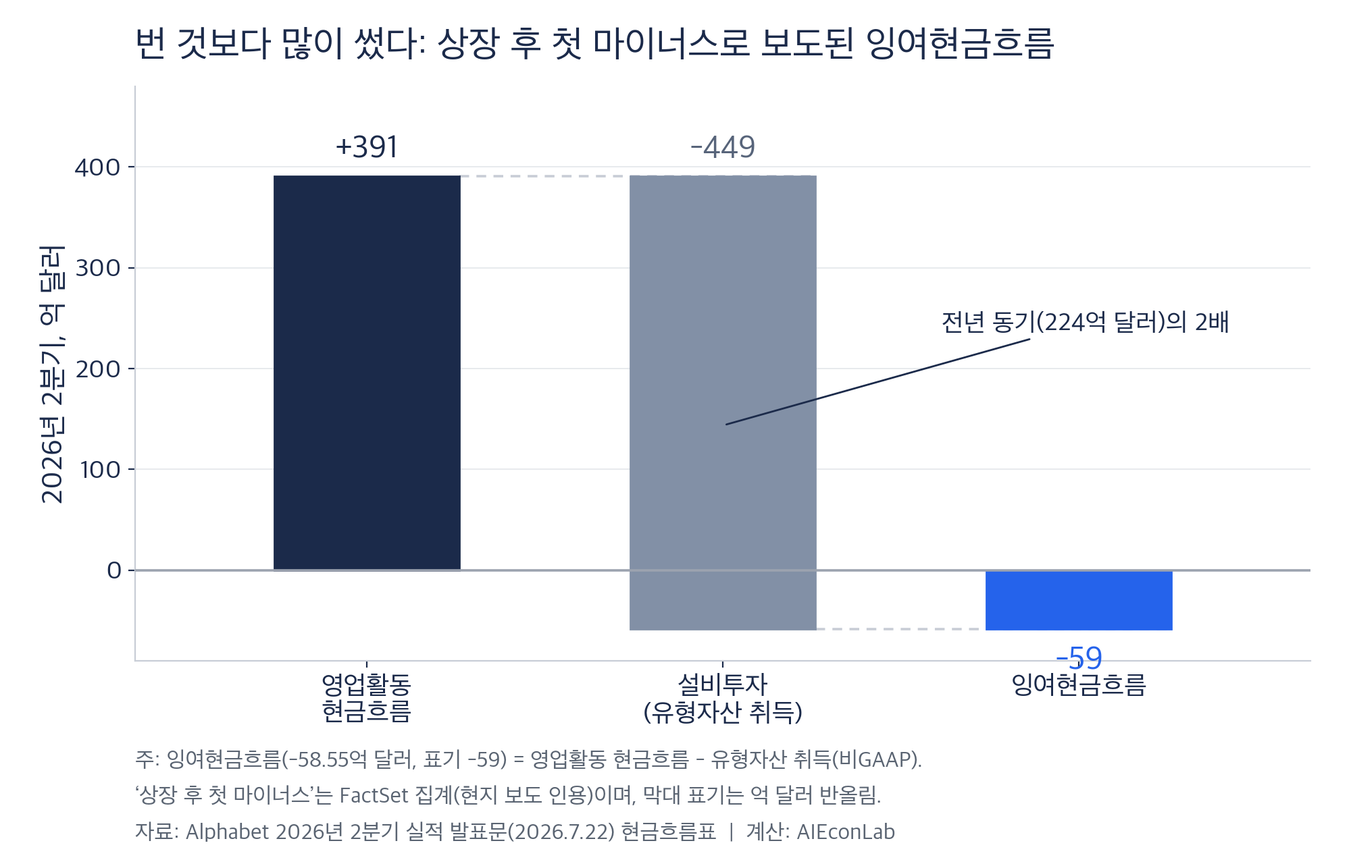
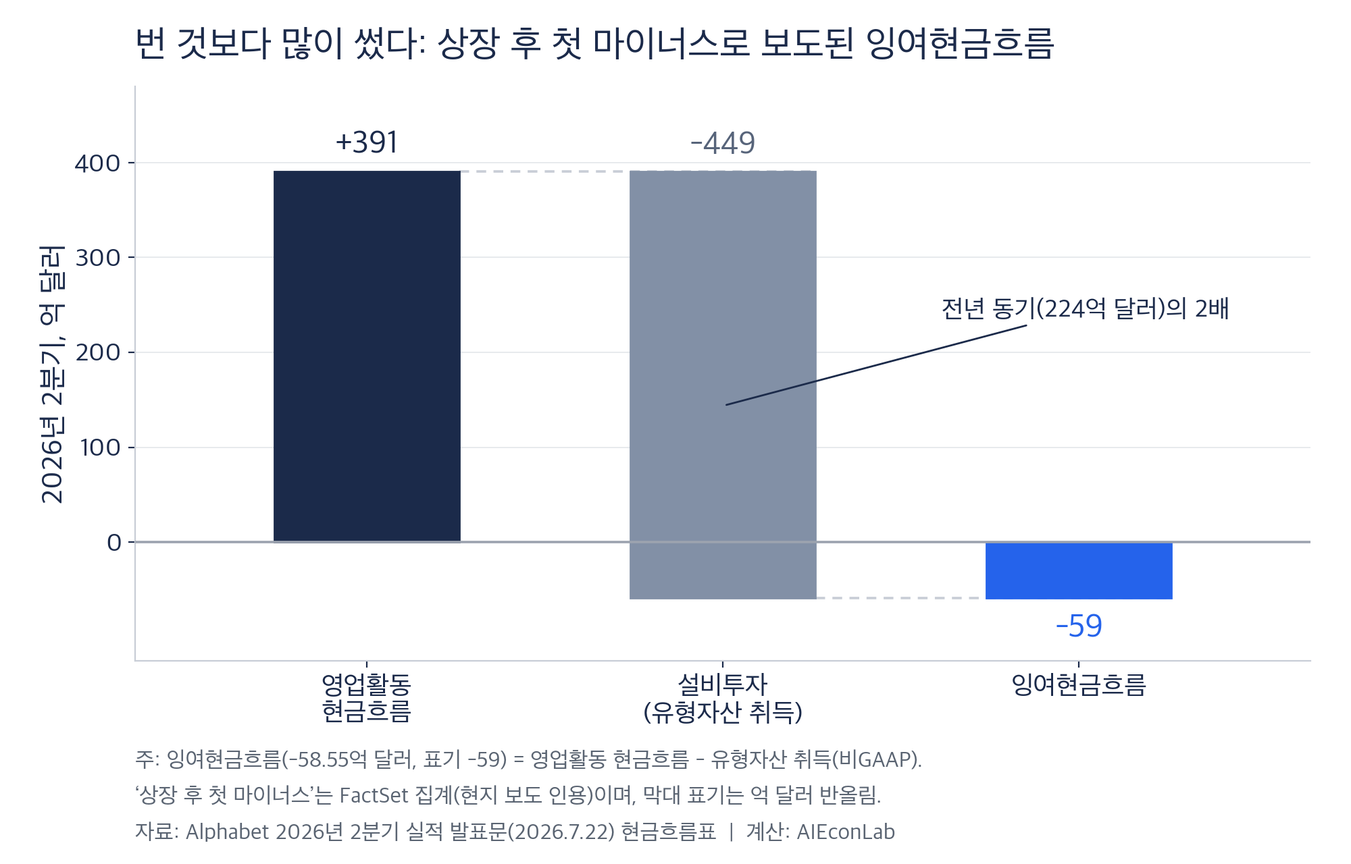
fix(trend14): 6차 감사 반영 — 100일선 시점·저자 오귀속(P1 2건) 교정, 국내 증시 이틀 추가
P1
- 100일선 하회는 발표 전 7/22 종가에 이미 발생(원고가 링크한 Yahoo 기사와 어긋남).
  '이튿날 7% 하락으로 넉 달 만에' → 시점·인과·기간 모두 교정
- trend5는 이정혁 필자의 2024-09-10 글인데 '필자가 정리했을 때'로 적어 저자 오귀속.
  저장소 관례에 맞춰 '그해 9월 이 블로그도 다뤘습니다'로 교체

P2
- FCF 303억 악화의 분해(설비투자 +210억 / 영업현금 -93억)와 2분기 계절성·전년비 +41% 병기
- 국내 증시 이틀 추가: 7/23 코스피 +4.40%(알파벳 capex 훈풍)·SK하이닉스 +4.86%,
  7/24 코스피 -5.72%·사이드카·삼전닉스 7%대 급락. '청구서가 줄어서가 아님'을 명시해 인과 과장 배제
- BofA 800억을 사전 전망으로 시제 교정 + 출처(24/7 Wall St.) 등재
- column4 질문 요약을 'AI의 거시 생산성 효과'로 정정, 그림1 캡션 -58.6 → -58.55
- description 229자 → 130자대, 도입부 예고에 매출 축 추가

그림/스크립트
- fig01 PNG의 x축 스파인이 '-59' 라벨을 관통하던 결함 수정(ylim 확장) + 재발 방지 assert 추가,
  PNG 재생성 및 README 해시 갱신

표현
- '빅테크 가운데 처음' → '하이퍼스케일러 가운데 처음', '약 네 배' → '약 3.8배',
  '반대편' → '반대면' 통일, '걸쳐 둔' → '걸어 둔', '물론' 중복 해소, 다섯 장의 층 구분

문서
- CLAUDE.md/AGENTS.md에 예약 게시 주의(--buildFuture 부재로 미래 날짜 글 조용히 누락) 명시

diff --git a/docs/03-analysis/alphabet-receipts/scripts/fig01_cash_receipts.py b/docs/03-analysis/alphabet-receipts/scripts/fig01_cash_receipts.py
@@ -88,7 +88,9 @@ def main():
     ax.set_xticklabels(["영업활동\n현금흐름", "설비투자\n(유형자산 취득)", "잉여현금흐름"],
                        fontsize=14.5, color=NAVY)
     ax.set_xlim(-0.65, 2.65)
-    ax.set_ylim(-90, 480)
+    # 하단 여백을 넉넉히 둬 '-59' 값 라벨이 x축 스파인에 걸리지 않게 한다
+    ax.set_ylim(-125, 480)
+    ax.set_yticks([0, 100, 200, 300, 400])  # 축 확장이 -100 눈금을 새로 만들지 않도록 고정
     ax.set_ylabel("2026년 2분기, 억 달러", fontsize=15.5, color=NAVY)
     ax.tick_params(colors=NAVY, labelsize=14)
     for s in ("top", "right"):
@@ -119,6 +121,10 @@ def main():
     gap23 = bb(note2).y0 - bb(note3).y1
     assert gap12 >= 2 and gap23 >= 2, ("주석 줄간 겹침", round(gap12, 1), round(gap23, 1))
     assert not bb(note_capex).overlaps(bb(ax.title)), "주석-제목 겹침"
+    # 값 라벨이 x축 스파인 아래로 삐져나가 취소선처럼 보이지 않는지 검사
+    ax_y0 = ax.get_window_extent(renderer=rend).y0
+    for t in ax.texts:
+        assert bb(t).y0 > ax_y0 + 3, ("값 라벨-축선 겹침", t.get_text())
     print(f"layout checks passed: note gaps {gap12:.1f}/{gap23:.1f}px, width ok")
 
     a.out.parent.mkdir(parents=True, exist_ok=True)

diff --git a/content/english/post/trend14_alphabet_receipts.md b/content/english/post/trend14_alphabet_receipts.md
@@ -7,7 +7,7 @@ images:
 #author
 author: "송하윤 (Hayun Song)"
 # description
-description: "알파벳 2026년 2분기 실적의 세 겹 읽기 — 순이익 1,121억 달러의 대부분을 만든 지분증권 평가이익 990억 달러의 착시, FactSet 집계상 상장 후 처음인 분기 잉여현금흐름 -59억 달러와 2,000억 달러대로 올라간 설비투자 가이던스, 클라우드 +82%와 수주잔고 5,140억 달러의 매출 증거, 그리고 7월 29~30일 SK하이닉스·FOMC·마이크로소프트·메타·미국 GDP로 이어지는 검증 일정"
+description: "알파벳 2026년 2분기 실적의 세 겹 읽기 — 사상 최대 순이익 1,121억 달러의 대부분은 지분증권 평가이익, 분기 잉여현금흐름은 -59억 달러, 설비투자 가이던스는 1,950억~2,050억 달러로 상향. 그 반대면의 클라우드 +82%와 다음 주 다섯 장의 영수증까지."
 # Taxonomies
 categories: ["AI_트렌드"]
 tags: ["AI","ECONOMICS","BIGTECH","CAPEX","CLOUD","SEMICONDUCTOR"]
@@ -17,39 +17,41 @@ draft: false
 
 지난 22일(현지시간) 알파벳이 2026년 2분기 실적을 발표했습니다. 매출은 1,198억 달러로 전년 동기 대비 24% 늘었고, 보통주주 귀속 순이익은 1,121억 달러로 **298% 늘었습니다**. 회사 역사상 가장 큰 분기 이익입니다. 그리고 이튿날(23일) 뉴욕 증시에서 알파벳 주가는 **약 7% 급락**해 4월 중순 이후 가장 낮은 수준으로 내려갔습니다.
 
-사상 최대 이익에 주가 급락이라는 조합은 역설처럼 보이지만, 이번 실적 시즌에 월가가 빅테크를 심사하는 기준을 알면 자연스럽게 읽힙니다. 미국 언론은 그 기준을 ‘영수증(receipts)’이라는 단어로 요약합니다. 빅테크가 AI 인프라를 중심으로 올해 합쳐 7,000억 달러 넘게 쓰겠다고 예고한 설비투자가 정말 돈이 되는지, 증빙을 내놓으라는 것입니다. 알파벳은 이번 시즌 빅테크 가운데 처음으로 영수증을 내밀었고, 시장은 이익의 크기가 아니라 영수증의 항목을 읽었습니다.
+사상 최대 이익에 주가 급락이라는 조합은 역설처럼 보이지만, 이번 실적 시즌에 월가가 빅테크를 심사하는 기준을 알면 자연스럽게 읽힙니다. 미국 언론은 그 기준을 ‘영수증(receipts)’이라는 단어로 요약합니다. 빅테크가 AI 인프라를 중심으로 올해 합쳐 7,000억 달러 넘게 쓰겠다고 예고한 설비투자가 정말 돈이 되는지, 증빙을 내놓으라는 것입니다. 알파벳은 이번 시즌 하이퍼스케일러 가운데 처음으로 영수증을 내밀었고, 시장은 이익의 크기가 아니라 영수증의 항목을 읽었습니다.
 
-이 글은 세 가지를 합니다. 먼저 1,121억 달러라는 숫자에서 착시를 걷어내고, 다음으로 이번 발표의 진짜 뉴스인 현금흐름과 커진 청구서를 읽고, 마지막으로 이것이 다음 주 한국의 일정과 어떻게 연결되는지 봅니다.
+이 글은 세 가지를 합니다. 먼저 1,121억 달러라는 숫자에서 착시를 걷어내고, 다음으로 이번 발표의 진짜 뉴스인 현금흐름과 커진 청구서, 그리고 그 반대면의 매출 증거를 읽고, 마지막으로 이것이 한국 반도체와 다음 주 일정으로 어떻게 이어지는지 봅니다.
 
 ## 걷어내기: 영업 밖에서 온 980억 달러
 
-먼저 이익의 분해입니다. 이번 분기 세전이익 1,388억 달러 가운데 영업이익은 408억 달러입니다. 전년 동기보다 30% 늘었고 영업이익률도 2%포인트 오른 34%였으니 그 자체로 좋은 성적이지만, 순이익을 네 배 가까이로 만든 힘은 아닙니다. 나머지를 채운 것은 **기타수익 980억 달러**이며(전년 동기에는 27억 달러였습니다), 그 정체를 회사 스스로 [발표문](https://s206.q4cdn.com/479360582/files/doc_financials/2026/q2/2026q2-alphabet-earnings-release.pdf)에 “주로 지분증권의 순미실현 평가이익”이라고 적었습니다. 기타수익 안의 지분증권 이익만 따로 보면 990억 달러이고, 다른 항목의 손실이 이를 일부 상쇄한 결과가 980억 달러입니다.
+먼저 이익의 분해입니다. 이번 분기 세전이익 1,388억 달러 가운데 영업이익은 408억 달러입니다. 전년 동기보다 30% 늘었고 영업이익률도 2%포인트 오른 34%였으니 그 자체로 좋은 성적이지만, 순이익을 네 배 가까이로 만든 힘은 아닙니다. 나머지를 채운 것은 **기타수익 980억 달러**입니다(전년 동기에는 27억 달러였습니다). 그 정체를 회사 스스로 [발표문](https://s206.q4cdn.com/479360582/files/doc_financials/2026/q2/2026q2-alphabet-earnings-release.pdf)에 “주로 지분증권의 순미실현 평가이익”이라고 적었습니다. 기타수익 안의 지분증권 이익만 따로 보면 990억 달러이고, 다른 항목의 손실이 이를 일부 상쇄한 결과가 980억 달러입니다.
 
-평가이익의 출처는 공식 확인과 추정을 구분해 읽어야 합니다. 분기 보고서(10-Q)가 밝힌 주된 원천은 두 곳, 곧 지난 6월 12일 상장한 SpaceX(6월 말 기준 보유 지분 평가액 약 940억 달러)와 이름을 공개하지 않은 비상장사이며, 종목별 기여액은 공개되지 않았습니다. 이 비상장사를, 과거 지분율이 약 14%로 알려졌던 Anthropic으로 보는 것이 복수 보도의 추정입니다. Anthropic의 기업가치는 2분기 중 650억 달러 규모 투자 유치를 거치며 3,800억 달러에서 9,650억 달러로 뛰었고, 뱅크오브아메리카는 이 재평가에서 약 800억 달러의 평가이익이 발생했다고 추산합니다. 현행 미국 회계기준은 상장 지분의 가격 변동은 물론, 비상장 지분도 이번 투자 유치처럼 관측 가능한 거래가 생기면 재측정해 당기 손익에 반영하도록 하니, 절차상 이상한 숫자는 아닙니다.
+평가이익의 출처는 공식 확인과 추정을 구분해 읽어야 합니다. 분기 보고서(10-Q)가 밝힌 주된 원천은 두 곳, 곧 지난 6월 12일 상장한 SpaceX(6월 말 기준 보유 지분 평가액 약 940억 달러)와 이름을 공개하지 않은 비상장사이며, 종목별 기여액은 공개되지 않았습니다. 이 비상장사를, 과거 지분율이 약 14%로 알려졌던 Anthropic으로 보는 것이 복수 보도의 추정입니다. Anthropic의 기업가치는 2분기 중 650억 달러 규모 투자 유치를 거치며 3,800억 달러에서 9,650억 달러로 뛰었고, 뱅크오브아메리카는 실적 발표에 앞서 이 재평가로 약 800억 달러의 미실현 평가이익이 잡힐 것으로 전망한 바 있습니다. 현행 미국 회계기준은 상장 지분의 가격 변동은 물론, 비상장 지분도 이번 투자 유치처럼 관측 가능한 거래가 생기면 재측정해 당기 손익에 반영하도록 하니, 절차상 이상한 숫자는 아닙니다.
 
-다만 세 가지 단서가 붙습니다. 첫째, 이것은 대부분 현금 유입을 동반하지 않은 미실현 이익, 곧 장부 위의 이익입니다. 둘째, 보도의 추정이 맞는다면 이 이익의 큰 몫은 자사의 가장 직접적인 프런티어 모델 경쟁사 몸값이 올라서 생긴 셈이 됩니다. 경쟁에서 이기면 본업이 벌고 경쟁사의 가치가 오르면 지분이 버는, 경쟁의 양쪽에 걸쳐 둔 포트폴리오입니다. 셋째, 시장은 이 숫자를 실력으로 치지 않았습니다. 발표문 각주는 지분증권 이익 990억 달러가 법인세를 219억 달러, 순이익을 771억 달러, 희석 주당순이익을 6.26달러(9.11달러 중) 늘렸다고 직접 명시합니다. 이를 걷어낸 영업의 성적은 시장 예상을 크게 벗어나지 않는 수준이었습니다. 순이익 급증분의 대부분이 영업 밖에서 왔다면, 심사는 결국 영업 안쪽의 두 장부, 곧 현금과 매출로 넘어갑니다.
+다만 세 가지 단서가 붙습니다. 첫째, 이것은 대부분 현금 유입을 동반하지 않은 미실현 이익, 곧 장부 위의 이익입니다. 둘째, 보도의 추정이 맞는다면 이 이익의 큰 몫은 자사의 가장 직접적인 프런티어 모델 경쟁사 몸값이 올라서 생긴 셈이 됩니다. 경쟁에서 이기면 본업이 벌고 경쟁사의 가치가 오르면 지분이 버는, 경쟁의 양쪽에 걸어 둔 포트폴리오입니다. 셋째, 시장은 이 숫자를 실력으로 치지 않았습니다. 발표문 각주는 지분증권 이익 990억 달러가 법인세를 219억 달러, 순이익을 771억 달러, 희석 주당순이익을 6.26달러(9.11달러 중) 늘렸다고 직접 명시합니다. 이를 걷어낸 영업의 성적은 시장 예상을 크게 벗어나지 않는 수준이었습니다. 순이익 급증분의 대부분이 영업 밖에서 왔다면, 심사는 결국 영업 안쪽의 두 장부, 곧 현금과 매출로 넘어갑니다.
 
 ## 현금의 산수: 분기 잉여현금흐름은 음수, 조달은 확대
 
-이번 분기 알파벳은 영업활동으로 391억 달러의 현금을 만들었고, 설비투자에 449억 달러를 썼습니다. 잉여현금흐름은 **-59억 달러**. FactSet 집계로는 2004년 상장 이후 처음 있는 분기 마이너스입니다. 발표문의 조정표가 보여주는 경로도 뚜렷합니다. 분기 잉여현금흐름은 최근 네 분기 동안 245억 → 246억 → 101억 → -59억 달러로 내려왔습니다. 설비투자 449억 달러는 전년 동기(224억 달러)의 2.00배이고, 분기 매출의 37.5%에 해당합니다.
+이번 분기 알파벳은 영업활동으로 391억 달러의 현금을 만들었고, 설비투자에 449억 달러를 썼습니다. 잉여현금흐름은 **-59억 달러**. FactSet 집계로는 2004년 상장 이후 처음 있는 분기 마이너스입니다. 발표문의 조정표가 보여주는 경로도 뚜렷합니다. 분기 잉여현금흐름은 최근 네 분기 동안 245억 → 246억 → 101억 → -59억 달러로 내려왔습니다. 설비투자 449억 달러는 전년 동기(224억 달러)의 두 배(2.00배)이고, 분기 매출의 37.5%에 해당합니다.
 
-![영업현금흐름 391억 달러에서 설비투자 449억 달러를 빼면 잉여현금흐름은 -59억 달러](/images/post/trend14/fig01_cash_receipts.png "그림 1: 2026년 2분기 알파벳 현금의 산수. 영업활동 현금흐름 391억 달러, 설비투자(유형자산 취득) 449억 달러, 잉여현금흐름 -59억 달러(반올림 전 -58.6억 달러). (자료: 알파벳 2분기 실적 발표문 현금흐름표. 계산: 필자)")
+다만 이 하락을 전부 설비투자 탓으로 돌릴 수는 없습니다. 같은 네 분기 동안 영업활동 현금흐름도 484억 → 524억 → 458억 → 391억 달러로 움직여, 245억에서 -59억까지 303억 달러가 나빠지는 사이 설비투자 증가가 210억, 영업현금 감소가 93억을 차지했습니다. 그렇다고 이 93억을 영업 악화로 읽어서도 안 됩니다. 알파벳의 영업현금은 2분기가 계절적 저점이고(지난해도 1분기 362억에서 2분기 277억으로 내려갔습니다), 전년 동기와 견주면 오히려 277억에서 391억 달러로 41% 늘었습니다.
+
+![영업현금흐름 391억 달러에서 설비투자 449억 달러를 빼면 잉여현금흐름은 -59억 달러](/images/post/trend14/fig01_cash_receipts.png "그림 1: 2026년 2분기 알파벳 현금의 산수. 영업활동 현금흐름 391억 달러, 설비투자(유형자산 취득) 449억 달러, 잉여현금흐름 -59억 달러(반올림 전 -58.55억 달러). (자료: 알파벳 2분기 실적 발표문 현금흐름표. 계산: 필자)")
 
 <small>[그림 1 원본 크게 보기](/images/post/trend14/fig01_cash_receipts.png)</small>
 
 이것을 유동성 부족으로 읽어서는 안 됩니다. 같은 조정표 기준으로 최근 12개월 잉여현금흐름은 여전히 533억 달러 흑자이고, 분기 말 보유 현금·유가증권은 2,425억 달러에 이릅니다. 정확한 독법은 이렇습니다. 지출이 분기 영업현금을 앞지른 바로 그 분기에, 조달의 폭도 커졌습니다. 발표문에 따르면 알파벳은 6월에 보통주와 의무전환우선주를 발행해 **496억 달러를 순조달**했고, 사용 목적에 “AI 인프라와 글로벌 컴퓨트 확장을 위한 설비투자를 포함한 일반 기업 목적”을 명시했습니다. 분기 중 선순위 무담보 채권으로도 203억 달러를 조달했습니다. 전년 상반기 283억 달러였던 자사주 매입은 올해 상반기 집행이 0입니다. 프로그램 자체는 잔여 승인 한도 695억 달러에 만료 없이 유지되고 있고 현금배당도 계속되고 있으니, 공시만으로 잉여현금흐름 적자가 조달을 촉발했다거나 자사주 재원이 설비투자로 직접 옮겨 갔다고 단정할 수는 없습니다. 확인되는 것은 설비투자 확대와 증자·차입, 매입 집행 0이 같은 시기에 겹치며 자본배분의 구성이 달라졌다는 사실이고, 그 흔적은 재무상태표에 쌓였습니다. 반년 새 순유형자산은 2,466억 달러에서 3,212억 달러로 746억 달러 늘었고, 장기부채는 465억 달러에서 982억 달러로 두 배 이상이 됐습니다.
 
-그리고 가이던스. 회사는 올해 연간 설비투자 전망을 1,800억~1,900억 달러에서 **1,950억~2,050억 달러**로 150억 달러 올렸고, 내년에는 더 늘어난다고 예고했습니다. 콘퍼런스콜 보도에 따르면 2분기 기술 인프라 투자의 약 60%는 서버, 나머지는 데이터센터와 네트워킹 몫이었습니다. 중간값 2,000억 달러는 지난해 실적(914억 달러)의 약 2.2배, 재작년(525억 달러)의 약 네 배입니다. 업계 전체로 보면, 지난 2월 5개사(마이크로소프트·알파벳·아마존·메타·오라클)의 2026년 연간 총설비투자 합산 전망이 6,600억~6,900억 달러로 집계됐고, 5월에는 주요 하이퍼스케일러의 합계가 7,000억 달러를 넘어섰다는 보도가 나왔습니다. 알파벳의 이번 상향으로 그 합계는 다시 높아졌습니다.
+그리고 가이던스. 회사는 올해 연간 설비투자 전망을 1,800억~1,900억 달러에서 **1,950억~2,050억 달러**로 150억 달러 올렸고, 내년에는 더 늘어난다고 예고했습니다. 콘퍼런스콜 보도에 따르면 2분기 기술 인프라 투자의 약 60%는 서버, 나머지는 데이터센터와 네트워킹 몫이었습니다. 중간값 2,000억 달러는 지난해 실적(914억 달러)의 약 2.2배, 재작년(525억 달러)의 약 3.8배입니다. 업계 전체로 보면, 지난 2월 5개사(마이크로소프트·알파벳·아마존·메타·오라클)의 2026년 연간 총설비투자 합산 전망이 6,600억~6,900억 달러로 집계됐고, 5월에는 주요 하이퍼스케일러의 합계가 7,000억 달러를 넘어섰다는 보도가 나왔습니다. 알파벳의 이번 상향으로 그 합계는 다시 높아졌습니다.
 
-주가의 낙폭이 커진 배경에도 이 대목이 있습니다. 이튿날의 7% 하락으로 알파벳 주가는 넉 달 만에 100일 이동평균선 아래로 내려갔고, 다음 주 실적 발표를 앞둔 메타 등의 주가도 함께 눌렸습니다. 다만 같은 날 나스닥이 2.2% 내렸고 테슬라 급락과 중동발 유가 급등까지 겹친 약세장이었던 만큼, 7% 전부를 이 청구서 탓으로 돌릴 수는 없습니다. 분명한 것은 알파벳에 관한 한 시장의 질문이 실적의 크기가 아니라 청구서의 증가 속도를 향해 있었다는 점입니다.
+주가의 낙폭이 커진 배경에도 이 대목이 있습니다. 알파벳 주가는 발표 전인 22일 종가에서 이미 4월 이후 처음으로 100일 이동평균선을 밑돌았고, 장 마감 뒤 발표가 나오자 이튿날 7% 하락으로 낙폭을 키웠습니다. 다음 주 실적 발표를 앞둔 메타 등의 주가도 함께 눌렸습니다. 다만 그 23일은 나스닥이 2.2% 내리고 테슬라 급락과 중동발 유가 급등까지 겹친 약세장이었던 만큼, 7% 전부를 이 청구서 탓으로 돌릴 수는 없습니다. 분명한 것은 알파벳에 관한 한 시장의 질문이 실적의 크기가 아니라 청구서의 증가 속도를 향해 있었다는 점입니다.
 
 ## 영수증의 반대면: 매출은 도착하고 있는가
 
-청구서만 커진 것은 아닙니다. 지출의 반대편 증거도 이번 발표에서 뚜렷해졌습니다.
+청구서만 커진 것은 아닙니다. 지출의 반대면 증거도 이번 발표에서 뚜렷해졌습니다.
 
 클라우드 부문 매출은 248억 달러로 **82% 늘며** 성장률이 크게 가속됐고(회사는 기업용 AI 인프라와 AI 솔루션 수요를 이유로 들었습니다), 부문 영업이익은 28억 달러에서 88억 달러로, 영업이익률은 20.7%에서 35.6%로 뛰었습니다. 아직 매출로 잡히지 않은 계약, 곧 수주잔고는 5,140억 달러입니다. 회사가 올해 1분기부터 1년 이하 계약(1분기 기준 약 73억 달러)도 포함하도록 공시 기준을 바꿔 1년 전 공개치(1,060억 달러)와 같은 기준의 비교는 아니지만, 동일 기준인 직전 분기(4,623억 달러)와 비교해도 한 분기 만에 약 11% 늘었습니다. 물량 지표도 있습니다. 발표문에서 순다르 피차이 CEO는 Gemini 모델이 분당 220억 개의 API 토큰을 처리하고 Gemini 앱의 월간 이용자가 9억 5,000만 명이라고 밝혔는데, 토큰 처리량의 직전 분기 공개치는 160억 개였습니다. 이번 공시에 단가 자료는 없어 가격 대비 물량의 속도까지 판정할 수는 없지만, 사용량과 매출이 함께 빠르게 늘고 있다는 사실 자체가 [‘예측이 값싸지는 시대’](/post/column3_economists_job/)가 주목했던 수요 반응의 실물 증거입니다.
 
-2024년 여름 세쿼이아캐피털의 데이비드 칸이 [‘AI의 6,000억 달러 질문’](https://www.sequoiacap.com/article/ais-600b-question/)을 던지고 필자가 [그 무렵의 거품 논쟁](/post/trend5_ai_hype/)을 정리했을 때, 회의론의 핵심 근거는 투자와 매출의 간극이었습니다. 설비투자는 눈에 보이는데 그것을 정당화할 매출이 보이지 않는다는 것. 이번 분기의 클라우드 숫자는 그 간극이 최소한 한 회사에서는 좁혀지고 있음을 매출 쪽에서 보여주는 강한 증거입니다. 물론 이는 방향의 증거이지, 전사 설비투자의 회수 속도나 투자수익률을 직접 재는 지표는 아닙니다.
+2024년 여름 세쿼이아캐피털의 데이비드 칸이 [‘AI의 6,000억 달러 질문’](https://www.sequoiacap.com/article/ais-600b-question/)을 던지고, 그해 9월 이 블로그도 [당시의 거품 논쟁](/post/trend5_ai_hype/)을 다뤘습니다. 칸이 제시한 회의론의 핵심 근거는 투자와 매출의 간극이었습니다. 설비투자는 눈에 보이는데 그것을 정당화할 매출이 보이지 않는다는 것. 이번 분기의 클라우드 숫자는 그 간극이 최소한 한 회사에서는 좁혀지고 있음을 매출 쪽에서 보여주는 강한 증거입니다. 물론 이는 방향의 증거이지, 전사 설비투자의 회수 속도나 투자수익률을 직접 재는 지표는 아닙니다.
 
 다만 반대면에도 반대면이 있습니다. 오늘의 이익률에는 오늘의 지출이 다 반영되어 있지 않습니다. 서버와 데이터센터는 사 오는 분기에 한꺼번에 비용이 되는 것이 아니라 이후 수년에 걸쳐 감가상각으로 비용화됩니다. 그래서 이번 분기 설비투자가 전년 동기의 두 배로 뛰는 동안, 과거 취득분에서 발생하는 감가상각비는 50억 달러에서 71억 달러로 42% 늘어나는 데 그쳤습니다. 두 숫자는 서로 다른 시점의 자산을 가리키므로 1대 1로 대응하지 않지만, 방향은 분명합니다. 지금의 지출은 앞으로 몇 년간 손익계산서에 차례로 도착할 예정입니다. 덧붙여 여기의 설비투자·감가상각은 전사 수치이고 클라우드 부문 귀속액은 따로 공개되지 않으며, 공통 AI 연구개발비의 일부는 부문 밖(Alphabet-level)에 계상됩니다. 클라우드 마진 35.6%를 AI 투자 전체의 수익률로 읽어서는 안 되는 이유이고, 그 마진 역시 청구서가 다 도착하기 전의 숫자입니다. 경영진이 투자 지속의 조건을 “매력적인 수익률이 보이는 한”이라고 달아 둔 것도 이 시차를 의식한 문장으로 읽힙니다.
 
@@ -61,19 +63,23 @@ draft: false
 
 이 실적이 태평양 건너의 일만은 아니라는 점은 어제 글에서 이미 보았습니다. [2분기 한국 GDP 속보를 다룬 글](/post/trend13_gdp_q2_surprise/)에서 확인했듯, 한국의 2분기 실질 국내총소득(GDI)은 반도체 가격 상승에 힘입어 전년 동기 대비 15.6% 늘며 38년여 만에 가장 빠른 속도를 기록했습니다. 다만 그 글에 적어 둔 식별의 한계는 여기서도 유효합니다. 한국은행 통계가 직접 보여주는 것은 반도체 가격 상승과 교역조건 개선까지이고, AI 데이터센터 투자는 이를 설명하는 유력한 수요 요인이지만 그 기여분을 국민계정에서 따로 떼어낼 수는 없습니다. 이 글이 확인한 하이퍼스케일러의 설비투자는 그 연결 가설의 수요 쪽 증거입니다. 알파벳의 2분기 기술 인프라 투자 중 약 60%가 서버로 갔고, AI 서버의 확대는 HBM과 고용량 서버용 D램의 수요를 늘리는 경로로 이어집니다.
 
-그래서 오는 29일(수) 오전 SK하이닉스의 2분기 실적 발표는 이 연결 경로가 HBM·서버용 D램의 출하와 가격, 이익에서 실제로 나타나는지 점검하는 다음 증거가 됩니다. 7월 하순 집계된 증권가 컨센서스는 매출 약 83조 원, 영업이익 약 64조 원입니다. 실제 숫자가 어디에 찍히든, 미국 빅테크의 자본지출이 한국 기업의 이익으로 번역된다는 가설이 다음 주에 다시 시험대에 오릅니다. 물론 기업 실적은 경로의 중간 검문소일 뿐이어서, 국민소득까지의 파급은 기업 발표가 아니라 다음 국민계정 통계에서 따로 확인할 몫입니다. 물론 어제 글의 경고를 여기에도 똑같이 적어 두어야 합니다. 같은 경로는 반대 방향으로도 작동합니다. 하이퍼스케일러의 청구서가 줄어드는 날, 가장 먼저 흔들리는 것도 이 경로입니다.
+그래서 오는 29일(수) 오전 SK하이닉스의 2분기 실적 발표는 이 연결 경로가 HBM·서버용 D램의 출하와 가격, 이익에서 실제로 나타나는지 점검하는 다음 증거가 됩니다. 7월 하순 집계된 증권가 컨센서스는 매출 약 83조 원, 영업이익 약 64조 원입니다. 실제 숫자가 어디에 찍히든, 미국 빅테크의 자본지출이 한국 기업의 이익으로 번역된다는 가설이 다음 주에 다시 시험대에 오릅니다. 물론 기업 실적은 경로의 중간 검문소일 뿐이어서, 국민소득까지의 파급은 기업 발표가 아니라 다음 국민계정 통계에서 따로 확인할 몫입니다.
+
+이 경로가 얼마나 예민한지는 지난 이틀의 국내 증시가 보여 줬습니다. 알파벳의 설비투자 가이던스가 전해진 23일(목) 코스피는 4.40% 오른 7,096.89로 마감했고, SK하이닉스는 4.86% 오른 191만 9,000원으로 장을 마쳤습니다. AI 인프라 수혜 기대가 그대로 가격에 실린 하루였습니다. 그런데 이튿날인 24일(금)에는 코스피가 5.72% 내린 6,690.62로 마감했습니다. 오전 11시 23분경 매도 사이드카가 발동됐고, 삼성전자와 SK하이닉스가 나란히 7% 넘게 밀렸으며, 외국인은 하루 만에 3조 원 넘게 순매도했습니다. 중동 지정학 리스크에 따른 유가 급등과 전날 미국 증시 급락이 원인으로 꼽혔습니다.
+
+이틀 사이 방향이 뒤집힌 것이 하이퍼스케일러의 청구서가 줄어서는 아닙니다. 알파벳은 오히려 청구서를 키웠습니다. 그래서 어제 글의 경고를 여기에도 똑같이 적어 두어야 합니다. 같은 경로는 반대 방향으로도 작동하고, 주가는 그 전환을 실적보다 먼저 반영합니다. 하이퍼스케일러의 청구서가 줄어드는 날, 가장 먼저 흔들리는 것도 이 경로입니다.
 
 ## 29일과 30일: 이틀 사이 도착하는 다섯 장의 영수증
 
-알파벳의 영수증을 첫 장으로 만드는 일정이 다음 주에 몰려 있습니다. 한국시간 기준으로 이틀 사이 다섯 개의 발표가 이어집니다.
+알파벳의 영수증을 첫 장으로 만드는 일정이 다음 주에 몰려 있습니다. 한국시간 기준으로 이틀 사이 다섯 개의 발표가 이어집니다. 세 장은 기업이 내미는 영수증이고, 나머지 둘은 그 영수증을 읽는 쪽의 판정입니다.
 
-* **29일(수) 오전 SK하이닉스 2분기 실적** — 알파벳을 비롯한 하이퍼스케일러의 서버 지출이 HBM·서버용 D램의 출하와 가격, 이익에 얼마나 반영됐는지 점검하게 됩니다.
-* **30일(목) 새벽 3시 7월 FOMC 결과** — [신트라의 중앙은행들을 다룬 글](/post/column4_central_banks_ai/)의 질문, 곧 AI가 만든 성장의 실체가 확인되기 전에 통화정책이 먼저 움직일 수 있는가가 다시 시험대에 오릅니다. 지난 16일 기준금리를 올린 한국은행에 이어 이번에는 연준의 차례입니다.
+* **29일(수) 오전 SK하이닉스 2분기 실적** — 앞 절에서 본 연결 경로가 실제 출하와 가격, 이익으로 확인되는지 보는 첫 장입니다. 24일 주가가 7% 넘게 밀린 뒤여서, 지난 분기의 숫자만이 아니라 하반기 전망이 함께 심사받게 됐습니다.
+* **30일(목) 새벽 3시 7월 FOMC 결과** — [신트라의 중앙은행들을 다룬 글](/post/column4_central_banks_ai/)의 질문, 곧 AI의 거시 생산성 효과가 확인되기 전에 통화정책이 먼저 움직일 수 있는가가 다시 시험대에 오릅니다. 지난 16일 기준금리를 올린 한국은행에 이어 이번에는 연준의 차례입니다.
 * **30일(목) 새벽 마이크로소프트 실적** — 애저(Azure) 성장률의 감속 여부가 첫 관전 포인트입니다. 집계 범위가 달라 구글 클라우드 +82%와 직접 비교할 수는 없지만, 기업용 AI 인프라 수요가 알파벳만의 것인지 방향은 확인됩니다.
 * **30일(목) 새벽 메타 실적** — AI 광고의 수익화와 설비투자 계획이 확인됩니다. 광고 사업으로 쓴 영수증이라는 점에서 클라우드와는 다른 각도의 증빙입니다.
 * **30일(목) 밤 9시 30분 미국 2분기 GDP 속보** — 개별 기업의 지출을 GDP에서 따로 식별할 수는 없지만, 정보처리장비·지식재산생산물 같은 총량 투자 지표로 그 반영을 확인할 차례입니다. 신트라 글에서 계산했던 1분기의 구도(성장률 2.1% 가운데 해당 투자의 기여 약 1.5%포인트)가 2분기에도 이어졌는지 볼 수 있습니다.
 
-정리하면 이렇습니다. 알파벳의 사상 최대 분기 이익은 대부분 영업 밖 지분 평가이익이 만들어 준 장부 위의 숫자였고, 진짜 뉴스는 그 아래에 있었습니다. 분기 기준으로 번 현금보다 많이 쓰기 시작했고(잉여현금흐름 -59억 달러), 연간 지출 전망을 다시 150억 달러 올렸으며(1,950억~2,050억 달러), 올해 상반기 자사주 매입 집행이 0인 가운데 증자와 차입이 병행되며 자본배분의 구성이 달라졌습니다. 반대편에서는 클라우드 매출 +82%와 마진 개선이라는, 투자-매출 간극이 좁혀지고 있다는 매출 쪽의 강한 방향성 증거가 나왔습니다. 시장은 일단 청구서 쪽 우려에 무게를 실었고, 약세장이 겹치며 주가는 7% 내렸습니다. 판정이 바뀔 기회는 바로 다음 주, 이틀 사이 다섯 번 옵니다. 그리고 그 첫 순서가 한국 기업이라는 사실이, 이 청구서의 경제학이 우리에게 남의 일이 아닌 이유입니다. 다섯 장의 영수증이 모이면 이 블로그에서 결산을 이어가겠습니다.
+정리하면 이렇습니다. 알파벳의 사상 최대 분기 이익은 대부분 영업 밖 지분 평가이익이 만들어 준 장부 위의 숫자였고, 진짜 뉴스는 그 아래에 있었습니다. 분기 기준으로 번 현금보다 많이 쓰기 시작했고(잉여현금흐름 -59억 달러), 연간 지출 전망을 다시 150억 달러 올렸으며(1,950억~2,050억 달러), 올해 상반기 자사주 매입 집행이 0인 가운데 증자와 차입이 병행되며 자본배분의 구성이 달라졌습니다. 반대면에서는 클라우드 매출 +82%와 마진 개선이라는, 투자-매출 간극이 좁혀지고 있다는 매출 쪽의 강한 방향성 증거가 나왔습니다. 시장은 일단 청구서 쪽 우려에 무게를 실었고, 약세장이 겹치며 주가는 7% 내렸습니다. 판정이 바뀔 기회는 바로 다음 주, 이틀 사이 다섯 번 옵니다. 그리고 그 첫 순서가 한국 기업이라는 사실이, 이 청구서의 경제학이 우리에게 남의 일이 아닌 이유입니다. 다섯 장의 영수증이 모이면 이 블로그에서 결산을 이어가겠습니다.
 
 **숫자의 기준** — 이 글의 알파벳 수치는 회사가 7월 22일(현지시간) 공시한 2분기 실적 발표문(무감사)을 기준으로 하며, 본문에서는 억 달러 단위로 반올림해 적었습니다. 잉여현금흐름 -59억 달러는 발표문 조정표의 -5,855백만 달러(영업활동 현금흐름 39,069백만 - 유형자산 취득 44,924백만), 최근 12개월 533억 달러는 같은 표의 53,273백만 달러입니다. 지분증권 이익의 법인세·순이익·주당순이익 효과(219억 달러·771억 달러·6.26달러)는 발표문 각주의 명시치입니다. ‘상장 후 첫 분기 마이너스’는 FactSet 집계를 인용한 보도이고, SpaceX 지분 평가액과 비상장사 귀속·수주잔고 공시 기준 변경은 분기 보고서(10-Q)와 이를 다룬 보도, 연간 설비투자 가이던스와 서버 비중·주가·컨센서스 등 나머지 시장 수치는 아래에 링크한 보도를 따랐습니다.
 
@@ -89,6 +95,7 @@ draft: false
 * 📰 [Fortune - Anthropic and SpaceX just handed Google the biggest profit quarter in company history—on paper (2026.7.22)](https://fortune.com/2026/07/22/anthropic-spacex-investments-google-earnings-biggest-ever-profit-quarter/)
 * 📰 [MediaPost - Anthropic, SpaceX Hand Google Profit Windfall (2026.7.23)](https://www.mediapost.com/publications/article/416750/anthropic-spacex-hand-google-profit-windfall.html)
 * 📰 [CoinCentral - How SpaceX and Anthropic Drove a Record $112B Profit Quarter (2026.7)](https://coincentral.com/alphabet-googl-stock-how-spacex-and-anthropic-drove-a-record-112b-profit-quarter/)
+* 📰 [24/7 Wall St. - Will Anthropic Boost Alphabet’s Earnings to the Stratosphere? (2026.7.20, 발표 전 BofA 추산 약 800억 달러·지분 약 14%·1분기 말 3,800억 달러)](https://247wallst.com/investing/2026/07/20/will-anthropic-boost-alphabets-earnings-to-the-stratosphere/)
 * 📰 [The Motley Fool - Stock Market Today, July 23: Alphabet Slides 7% After Announcing 2026 Capex of Roughly $200 Billion (2026.7.23)](https://www.fool.com/coverage/stock-market-today/2026/07/23/stock-market-today-july-23-alphabet-slides-7-after-announcing-2026-capex-of-roughly-usd200-billion/)
 * 📰 [FX Leaders - Why Is Alphabet (GOOGL) Stock Down Today? (2026.7.23, 잉여현금흐름 -59억 달러 확인)](https://www.fxleaders.com/news/2026/07/23/why-is-alphabet-googl-stock-down-today-record-quarter-7-billion-capex-shock-shares-fall-anyway/)
 * 📰 [Axios - What worried investors about Alphabet (2026.7.23, ‘상장 후 첫 분기 마이너스 FCF’ FactSet 집계 인용)](https://www.axios.com/2026/07/23/ai-alphabet-google-earnings)
@@ -101,6 +108,9 @@ draft: false
 * 📄 [Sequoia Capital - David Cahn, AI's $600B Question (2024.6)](https://www.sequoiacap.com/article/ais-600b-question/)
 * 📰 [파이낸셜투데이 - 삼성·SK하이닉스, 2분기도 최대 실적 예고…‘AI·범용 D램’ 동반 강세 (2026.6.18)](https://www.ftoday.co.kr/news/articleView.html?idxno=360617)
 * 📰 [글로벌이코노믹 - HBM 호황 다음 질문은 수익성…SK하이닉스 실적 시즌 시험대 (2026.7.21, 7월 하순 컨센서스)](https://www.g-enews.com/article/Industry/2026/07/20260721162309616112616b072_1)
+* 📰 [이데일리 - 코스피, 알파벳 훈풍에 4.40% 급등 마감 (2026.7.23)](https://edaily.co.kr/News/Read?mediaCodeNo=257&newsId=04877366645517472)
+* 📰 [파이낸셜뉴스 - 코스피, 장중 5% 급락에 ‘매도 사이드카’ 발동 (2026.7.24)](https://www.fnnews.com/news/202607241147294825)
+* 📰 [이투데이 - 연달아 쏟아진 ‘매도 사이드카’…국내 증시 충격 속 코스피 6700선 재이탈 (2026.7.24)](https://www.etoday.co.kr/news/view/2607237)
 * 📊 [KRX KIND - SK하이닉스 기업설명회(IR) 일정: 7월 29일](https://kind.krx.co.kr/corpgeneral/irschedule.do?irSeq=45179&method=searchIRScheduleDetail)
 * 📰 [다음/연합 - SK하이닉스, 29일 실적발표에 쏠린 눈 (2026.7)](https://v.daum.net/v/8zdd5lIkyu?f=p)
 * 📊 [Microsoft - 분기 실적 발표 일정 공지: 7월 29일 (2026.7.8)](https://news.microsoft.com/source/2026/07/08/microsoft-announces-quarterly-earnings-release-date-68/)

diff --git a/docs/03-analysis/alphabet-receipts/README.md b/docs/03-analysis/alphabet-receipts/README.md
@@ -27,7 +27,7 @@
 | 지분증권 이익 990억 달러(기타수익과 구분), 대부분 미실현 | 발표문 9쪽 Gain on equity securities $99,031M; 다른 항목 손실이 상쇄해 OI&E 순액 $97,983M. 10-Q 분해: 미실현 $98,753M + 실현 $278M(3차 리뷰 원문 대조로 확정) | 발표문 9쪽·10-Q |
 | 지분증권 이익의 효과: 법인세 +219억, 순이익 +771억, 희석 EPS +6.26달러 | 발표문 9쪽 각주(1) 명시 — “increased … by $21.9 billion, $77.1 billion, and $6.26” | **발표문(공식). 초안의 ‘월가 집계’ 귀속은 오류였음 — 교정** |
 | 평가이익 원천: SpaceX(6/12 상장, 6월 말 보유분 평가액 약 940억 달러) + 이름 미공개 비상장사, 종목별 기여액 비공개 | 10-Q 서술(보도 교차 확인). 지분율 수치(4.9% 등)는 공시 미확인 보도 추정 → 2차 교정에서 본문 삭제 | 10-Q·Motley Fool·Yahoo |
-| 비상장사=Anthropic(과거 약 14%로 알려진 지분), 기업가치 3,800억→9,650억(650억 라운드), BofA 평가이익 약 800억 추산 | 보도·애널리스트 추정 — 회사 공식 확인 아님. 초안의 ‘14%×가치상승’ 자체 계산은 희석·주식종류 미반영이라 삭제, 14%도 ‘과거 알려진 비율’로 한정 | Fortune·MediaPost·CoinCentral |
+| 비상장사=Anthropic(과거 약 14%로 알려진 지분), 기업가치 3,800억→9,650억(650억 라운드), BofA 평가이익 약 800억 추산 | 보도·애널리스트 추정 — 회사 공식 확인 아님. 초안의 ‘14%×가치상승’ 자체 계산은 희석·주식종류 미반영이라 삭제, 14%도 ‘과거 알려진 비율’로 한정. **BofA 800억은 실적 발표 전 사전 전망**(6차 교정) | 24/7 Wall St.(2026.7.20, 발표 전 BofA 추산 800억·지분 약 14%·기점 3,800억). Fortune·MediaPost·CoinCentral은 기점을 3,500억으로 적고 BofA 추산이 없어 미채택 |
 | 영업현금흐름 391억 달러 | $39,069M | 발표문 현금흐름표 |
 | 설비투자 449억 달러(전년 224억의 2.00배), 매출 대비 37.5% | $44,924M (전년 $22,446M); 44,924/119,796=37.5% | 발표문 현금흐름표 |
 | 분기 잉여현금흐름 -59억 달러, 최근 네 분기 245→246→101→-59, TTM +533억 | 발표문 9쪽 조정표: 24,461 / 24,551 / 10,116 / (5,855), TTM 53,273 | 발표문 9쪽 |
@@ -44,7 +44,9 @@
 | 수주잔고 5,140억 달러 — 전년 동기와 직접 비교 불가(공시 기준 변경), 동일 기준 직전 분기(4,623억) 대비 약 11% | 2026 Q1부터 원계약 1년 이하 계약 포함(Q1 기준 그 규모 약 73억 달러). 2025 Q2 공개치 1,060억과는 기준 상이 → 배수 비교 폐기 | Q1·Q2 10-Q·보도 |
 | 토큰 분당 220억 개(직전 공개 160억), Gemini 앱 MAU 9.5억 | 발표문 CEO 인용(220억·9.5억), 160억은 실적 슬라이드 보도. 단가 자료 부재 → ‘단가 대비 속도’ 주장 안 함 | 발표문·Investing.com |
 | 감가상각비 71억(전년 50억, +42%) | $7,104M (전년 $4,998M) — 당기 capex와 1:1 대응 불가(자산 시점 상이), ‘당기 지출의 1/6 반영’식 해석 금지 | 발표문 현금흐름표 |
-| 주가: 발표 익일(7/23) 약 -7%, 319달러 안팎, 4월 중순 이후 최저, 100일선 하회 | 보도 종합(시간외 -3.65% $329.43 → 익일 -7%) | Motley Fool·Yahoo·FX Leaders·CNBC |
+| 주가: 발표 익일(7/23) 약 -7%, 319달러 안팎, 4월 중순 이후 최저 | 보도 종합(시간외 -3.65% $329.43 → 익일 -7%) | Motley Fool·Yahoo·FX Leaders·CNBC |
+| 100일선 하회는 **발표 전인 7/22 정규장 종가**에 이미 발생 — 익일 -7%나 capex 가이던스의 결과가 아님. ‘since April’은 약 3개월이며 ‘넉 달’이 아님 | Yahoo 기사 원문 “closed below the key 100-day moving average for the first time since April **on Wednesday**”(7/23 프리마켓 발행이므로 Wednesday=7/22). 교차검증: 7/23 종가 $317.69(-7.13%)에서 역산한 7/22 종가 ≈ $342.08 < 100일 SMA $343.21(Benzinga 7/22) (6차 교정) | Yahoo·Benzinga |
+| 국내 증시: 7/23 코스피 +4.40% 7,096.89(알파벳 capex 훈풍), SK하이닉스 +4.86% 191만 9,000원 / 7/24 코스피 -5.72% 6,690.62, 11:23경 매도 사이드카, 삼성전자·SK하이닉스 7%대 이상 급락, 외국인 3조 원 넘게 순매도 | 7/24 하락의 1차 원인은 중동 유가 급등·전날 미 증시 급락. 외국인 순매도액은 보도별 편차(3.2조~4.2조)가 있어 ‘3조 원 넘게’로 표기. SK하이닉스 7/24 종가 등락률은 보도별로 7%대~-8.34%로 갈려 ‘7% 넘게’로 보수 표기 | 이데일리·파이낸셜뉴스·이투데이 |
 | 5개사(MS·알파벳·아마존·메타·오라클) 2026년 연간 총설비투자: 2월 집계 6,600~6,900억, 5월에는 7,000억 초과 보도 | 시점 분리 표기 — 초안·1~3차의 ‘5월 집계 6,600~6,900억’은 시점 오귀속(4차 교정) | Futurum(2026.2.12)·24/7 Wall St.(2026.5.1)·Yahoo |
 | SK하이닉스 2분기 컨센서스 매출 약 83조·영업이익 약 64조(7월 하순 집계), 발표 7/29 오전 | 6월 집계(81.85조/62.46조, ftoday)에서 7월 하순 상향(g-enews). 본문은 최신 집계만 사용 | 글로벌이코노믹(7/21)·다음/연합 |
 | 미국 2분기 GDP 속보 7/30 08:30 ET(한국 21:30), FOMC 결정 7/29 14:00 ET(한국 7/30 03:00), MS·메타 실적 7/29 장 마감 후, SK하이닉스 7/29 오전 | 공식 일정 페이지·공지 | BEA·연방준비제도(공식 일정)·Microsoft·Meta IR·KRX KIND |
@@ -108,6 +110,25 @@
 - ‘경쟁사가 앞서가면’ → ‘경쟁사의 가치가 오르면’(가치 상승과 경쟁 우위 혼동 방지),
   ‘지금까지 가장 강한 증거’ 2곳 → ‘매출 쪽의 강한 (방향성) 증거’로 범위 한정.
 
+6차 감사(2026-07-25 오전, 23개 에이전트 병렬 감사 + 반증 검증)로 교정한 것들:
+- [P1] 100일선 하회 시점·인과: ‘이튿날 7% 하락으로 넉 달 만에 100일선 아래로’ → 하회는 발표 전
+  7/22 종가에 이미 발생했고 ‘since April’은 약 3개월. 원고가 이미 링크한 Yahoo 기사와 어긋나던 대목.
+- [P1] 저자 오귀속: trend5(‘AI 붐, 알고보면 거품인가?’)는 **이정혁** 필자의 2024-09-10 글인데
+  ‘필자가 정리했을 때’로 적어 송하윤 필자의 글처럼 읽혔다. 저장소 관례(‘저희’·‘이 블로그’)에 맞춰
+  ‘그해 9월 이 블로그도 다뤘습니다’로 교체.
+- FCF 하락의 분해 병기: 303억 악화 중 설비투자 증가 210억·영업현금 감소 93억, 2분기 계절적 저점과
+  전년 동기 대비 +41%를 함께 적어 ‘영업 악화’ 오독을 차단.
+- 국내 증시 이틀(7/23 +4.40% / 7/24 -5.72%·사이드카) 추가 — 게시 전날 급락을 침묵하지 않되,
+  ‘청구서가 줄어서 생긴 일이 아니다’를 명시해 역방향 인과 과장을 배제.
+- BofA 800억을 사전 전망으로 시제 교정 + 출처(24/7 Wall St.) 신규 등재, column4 질문 요약을
+  ‘AI의 거시 생산성 효과’로 정정(원문과 일치), 그림1 캡션 -58.6 → -58.55.
+- frontmatter description 229자 → 130자대(메타 노출 잘림·세전/세후 병기 오해 해소).
+- 그림 1 PNG 결함: x축 스파인이 ‘-59’ 값 라벨을 관통해 취소선처럼 보이던 문제를 ylim 확장으로
+  수정하고, 재발 방지 assert(값 라벨-축선 겹침)를 스크립트에 추가 후 재생성(해시 갱신).
+- 표현: ‘빅테크 가운데 처음’ → ‘하이퍼스케일러 가운데 처음’(같은 날 테슬라 실적과 충돌 회피),
+  ‘약 네 배’ → ‘약 3.8배’, ‘반대편’ → ‘반대면’ 통일, ‘걸쳐 둔’ → ‘걸어 둔’, ‘물론’ 중복 해소,
+  도입부 예고에 매출 축 추가, 다섯 장의 영수증에 기업 증빙 3장/판정 2장 층 구분.
+
 ## 그림 재현
 
 ```bash
@@ -127,5 +148,5 @@ python3 fig02_capex_depreciation.py --out ../../../../static/images/post/trend14
   미구현 — 위 표의 수동 대조 기록이 그 역할을 대신한다.
 - 게시 시점 산출물 SHA-256(위 환경 기준. 폰트·matplotlib 버전이 다르면 해시는 달라질 수 있음):
[4 lines of base64/hex data omitted]

diff --git a/AGENTS.md b/AGENTS.md
@@ -9,6 +9,7 @@ AIEconLab (인공지능경제연구소) - A Hugo static site for an AI Economics
 - **Site URL**: https://www.aieconlab.com/
 - **Theme**: logbook-hugo
 - **Deployment**: GitHub Pages via GitHub Actions (`.github/workflows/hugo.yml`, Hugo 0.124.0 extended). Every push to `main` builds and deploys automatically — do NOT commit the `public/` build output.
+- **Scheduled posts**: the build has no `--buildFuture` and the config sets no `buildFuture`, so a post whose frontmatter `date` is later than the build clock (UTC on the runner) is dropped silently — no error, and it is missing from the page, home, list, RSS and sitemap alike. The only triggers are `push` to `main` and `workflow_dispatch`, so nothing rebuilds it later on its own. Merge a scheduled post to `main` **after** its publish time, or if it was merged early, run the "Deploy Hugo site to Pages" workflow manually once that time passes. Do not add `--buildFuture` globally — it would expose every future-dated draft.
 
 ## Common Commands
 

diff --git a/CLAUDE.md b/CLAUDE.md
@@ -9,6 +9,7 @@ AIEconLab (인공지능경제연구소) - A Hugo static site for an AI Economics
 - **Site URL**: https://www.aieconlab.com/
 - **Theme**: logbook-hugo
 - **Deployment**: GitHub Pages via GitHub Actions (`.github/workflows/hugo.yml`, Hugo 0.124.0 extended). Every push to `main` builds and deploys automatically — do NOT commit the `public/` build output.
+- **Scheduled posts**: the build has no `--buildFuture` and the config sets no `buildFuture`, so a post whose frontmatter `date` is later than the build clock (UTC on the runner) is dropped silently — no error, and it is missing from the page, home, list, RSS and sitemap alike. The only triggers are `push` to `main` and `workflow_dispatch`, so nothing rebuilds it later on its own. Merge a scheduled post to `main` **after** its publish time, or if it was merged early, run the "Deploy Hugo site to Pages" workflow manually once that time passes. Do not add `--buildFuture` globally — it would expose every future-dated draft.
 
 ## Common Commands
 
